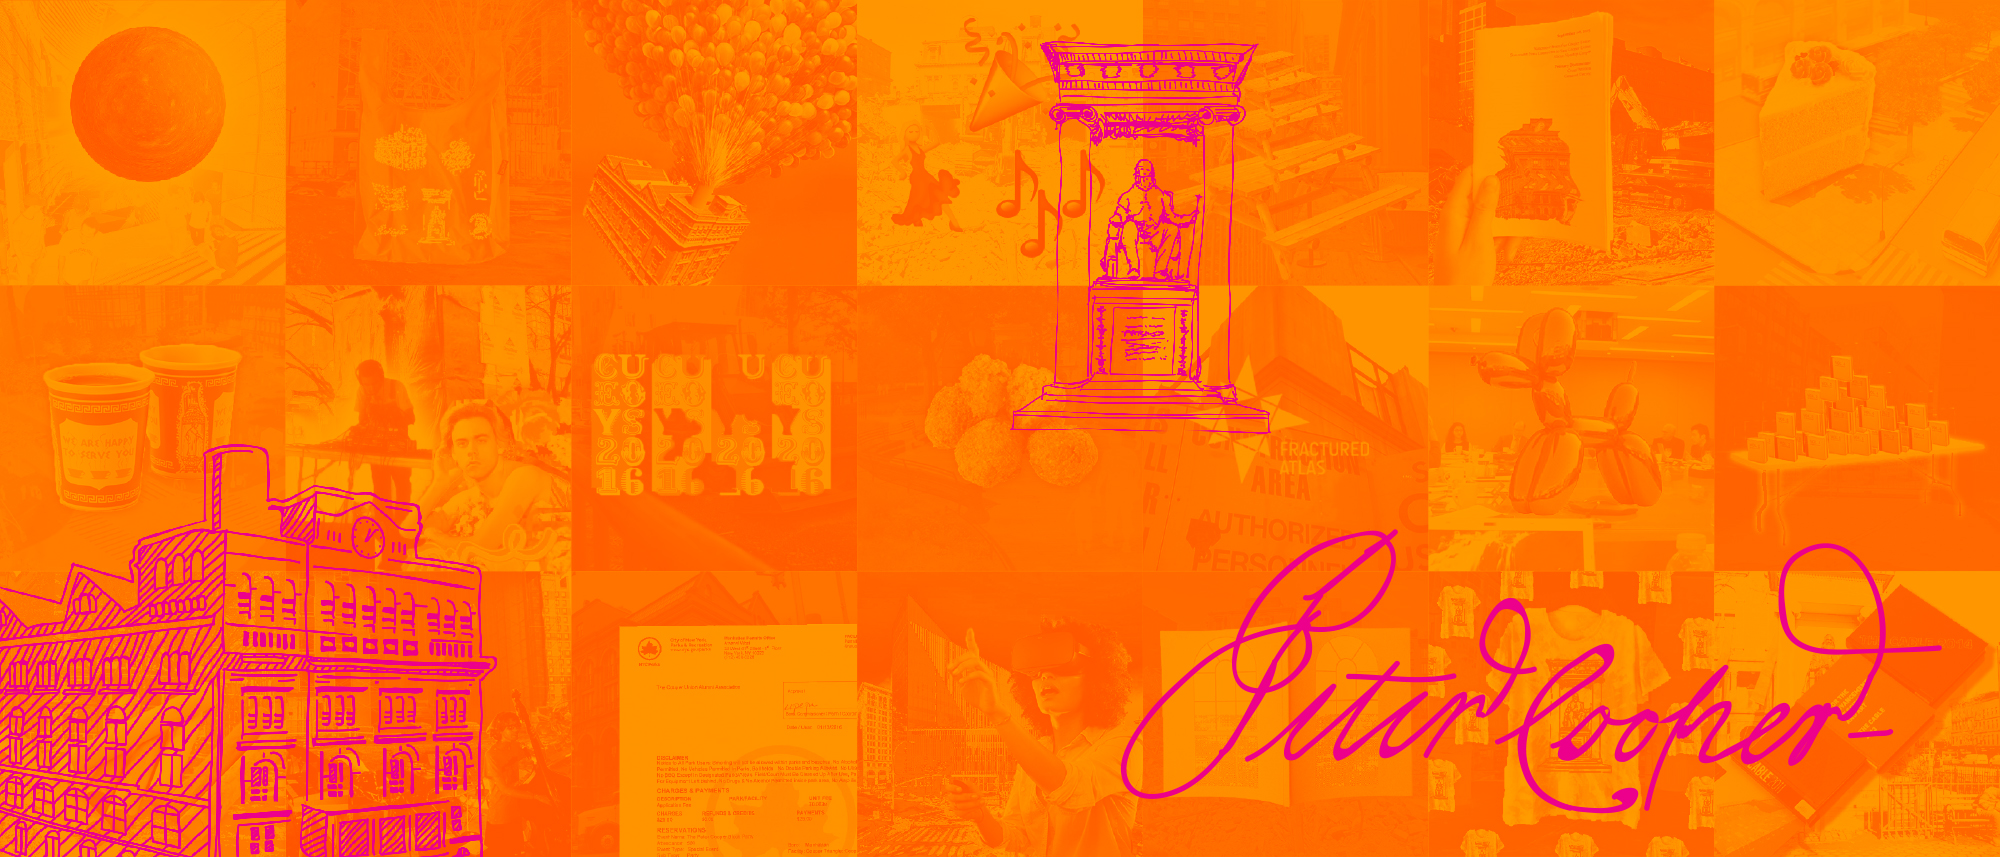
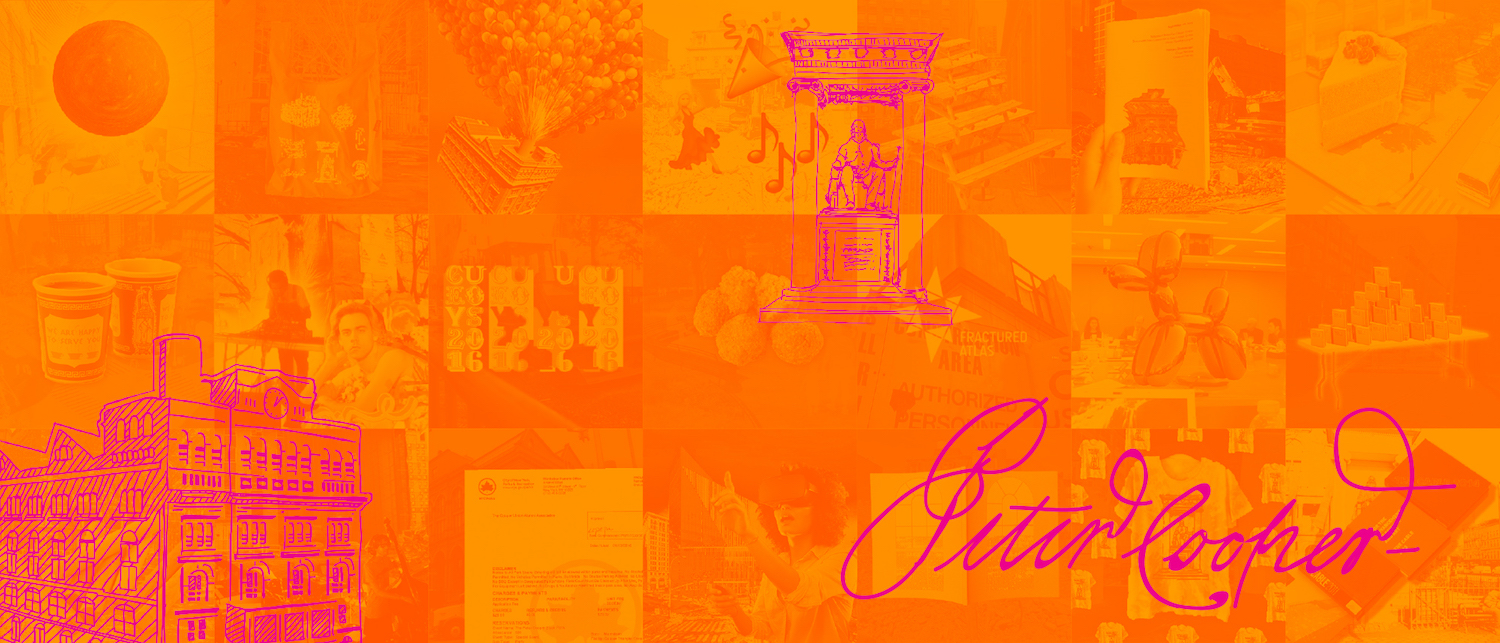
layouts + optimize images

diff --git a/_layouts/index.html b/_layouts/index.html
@@ -1,45 +1,23 @@
-<!doctype html>
-<html class="no-js" lang="">
-    <head>
-        <meta charset="utf-8">
-        <meta http-equiv="x-ua-compatible" content="ie=edge">
-        <title>Peter Cooper Block Party 2016</title>
-        <meta name="description" content="">
-        <meta name="viewport" content="width=device-width, initial-scale=1">
+{% include header.html %}
 
-        <link rel="apple-touch-icon" href="apple-touch-icon.png">
-        <!-- Place favicon.ico in the root directory -->
+    {% include nav.html %}
 
-        <link rel="stylesheet" href="css/normalize.css">
-        <link rel="stylesheet" href="css/main.css">
-        <link rel="stylesheet" href="https://cdn.rawgit.com/twbs/bootstrap/v4-dev/dist/css/bootstrap.css" crossorigin="anonymous">
-        <script src="js/vendor/modernizr-2.8.3.min.js"></script>
-    </head>
-        <!--[if lt IE 8]>
-            <p class="browserupgrade">You are using an <strong>outdated</strong> browser. Please <a href="http://browsehappy.com/">upgrade your browser</a> to improve your experience.</p>
-        <![endif]-->
-
-        {% include nav.html %}
-
-        <div class="alert alert-warning" role="alert" style="margin-bottom:0;">
-            <div class="container">
-                <strong>Calling all volunteers!</strong> Contact <a href="mailto:petercooperblockparty@gmail.com">petercooperblockparty@gmail.com</a> if you'd like to help out on June 5th.
-            </div>
+    <div class="alert alert-warning" role="alert" style="margin-bottom:0;">
+        <div class="container">
+            <strong>Calling all volunteers!</strong> Contact <a href="mailto:petercooperblockparty@gmail.com">petercooperblockparty@gmail.com</a> if you'd like to help out on June 5th.
         </div>
-        <div class="jumbotron jumbotron-fluid" style="min-height:600px; background-color:magenta; color: #fff;">
-            <div class="container intro-text">
-                <h3><strong>June 5, 2016</strong></h3>
-                <h1 class="display-3">Peter Cooper Block Party 2016</h1>
-                <p class="lead">Outside the Foundation Building<br> 
-                7 East 7th St., New York, NY<br> 
-                FREE & PUBLIC</p>
-            </div>
+    </div>
+    
+    <div class="jumbotron jumbotron-fluid" style="min-height:600px; background-color:magenta; color: #fff;">
+        <div class="container intro-text">
+            <h3><strong>June 5, 2016</strong></h3>
+            <h1 class="display-3">Peter Cooper Block Party 2016</h1>
+            <p class="lead">Outside the Foundation Building<br> 
+            7 East 7th St., New York, NY<br> 
+            FREE & PUBLIC</p>
         </div>
+    </div>
+
     <img src="img/savethedate.jpg" style="width:100%;" alt="Peter Cooper Block Party">
-        <script src="https://code.jquery.com/jquery-1.12.0.min.js"></script>
-        <script>window.jQuery || document.write('<script src="js/vendor/jquery-1.12.0.min.js"><\/script>')</script>
-        <script src="js/plugins.js"></script>
-        <script src="js/main.js"></script>
 
-    </body>
-</html>
+{% include footer.html %}

diff --git a/_layouts/featuring.html b/_layouts/featuring.html
@@ -1,20 +1,5 @@
-<!doctype html>
-<html class="no-js" lang="">
-    <head>
-        <meta charset="utf-8">
-        <meta http-equiv="x-ua-compatible" content="ie=edge">
-        <title>Featuring | Peter Cooper Block Party 2016</title>
-        <meta name="description" content="">
-        <meta name="viewport" content="width=device-width, initial-scale=1">
+{% include header.html %}
 
-        <link rel="apple-touch-icon" href="apple-touch-icon.png">
-        <!-- Place favicon.ico in the root directory -->
-
-        <link rel="stylesheet" href="css/normalize.css">
-        <link rel="stylesheet" href="css/main.css">
-        <link rel="stylesheet" href="https://cdn.rawgit.com/twbs/bootstrap/v4-dev/dist/css/bootstrap.css" crossorigin="anonymous">
-        <script src="js/vendor/modernizr-2.8.3.min.js"></script>
-    </head>
     <body data-spy="scroll" data-offset="50" data-target="#navbar" id="top">
         <!--[if lt IE 8]>
             <p class="browserupgrade">You are using an <strong>outdated</strong> browser. Please <a href="http://browsehappy.com/">upgrade your browser</a> to improve your experience.</p>
@@ -36,7 +21,7 @@
             <div class="card-columns">
                 {% for feature in site.data.featuring %}
                         <div class="card text-xs-center">
-                          {% if feature.image %}<img class="card-img-top" src="{{site.baseurl}}/img/{{feature.image}}">{% else %}<img class="card-img-top" src="https://placeholdit.imgix.net/~text?&bg=ffff00&w=400&h=400">{% endif %}
+                          {% if feature.image %}<img class="card-img-top" src="{{site.baseurl}}/img/squares/{{feature.image}}">{% else %}<img class="card-img-top" src="https://placeholdit.imgix.net/~text?&bg=ffff00&w=400&h=400">{% endif %}
                           <div class="card-block">
                             <h4 class="card-title">{{feature.title }}</h4>
                             {% if feature.description %}<p class="card-text">{{feature.description}}</p>{% endif %}
@@ -93,13 +78,4 @@
             </div>
         </div>
 
-        <script src="https://code.jquery.com/jquery-1.12.0.min.js"></script>
-        <script>window.jQuery || document.write('<script src="js/vendor/jquery-1.12.0.min.js"><\/script>')</script>
-        <script type="text/javascript" src="https://cdnjs.cloudflare.com/ajax/libs/tether/1.3.2/js/tether.min.js"></script>
-        <script src="https://cdn.rawgit.com/twbs/bootstrap/v4-dev/dist/js/bootstrap.js" crossorigin="anonymous"></script>
-        <script type="text/javascript" src="https://cdnjs.cloudflare.com/ajax/libs/jquery.countdown/2.1.0/jquery.countdown.min.js"></script>
-        <script src="js/plugins.js"></script>
-        <script src="js/main.js"></script>
-
-    </body>
-</html>
+{% include footer.html %}

diff --git a/_layouts/fundraising.html b/_layouts/fundraising.html
@@ -1,20 +1,5 @@
-<!doctype html>
-<html class="no-js" lang="">
-    <head>
-        <meta charset="utf-8">
-        <meta http-equiv="x-ua-compatible" content="ie=edge">
-        <title>Fundraising | Peter Cooper Block Party 2016</title>
-        <meta name="description" content="">
-        <meta name="viewport" content="width=device-width, initial-scale=1">
+{% include header.html %}
 
-        <link rel="apple-touch-icon" href="apple-touch-icon.png">
-        <!-- Place favicon.ico in the root directory -->
-
-        <link rel="stylesheet" href="css/normalize.css">
-        <link rel="stylesheet" href="css/main.css">
-        <link rel="stylesheet" href="https://cdn.rawgit.com/twbs/bootstrap/v4-dev/dist/css/bootstrap.css" crossorigin="anonymous">
-        <script src="js/vendor/modernizr-2.8.3.min.js"></script>
-    </head>
     <body data-spy="scroll" data-offset="50" data-target="#navbar" id="top">
         <!--[if lt IE 8]>
             <p class="browserupgrade">You are using an <strong>outdated</strong> browser. Please <a href="http://browsehappy.com/">upgrade your browser</a> to improve your experience.</p>
@@ -77,7 +62,7 @@
             <div class="card-columns">
                 {% for item in category.items %}
                         <div class="card text-xs-center">
-                          {% if item.image %}<img class="card-img-top" src="{{site.baseurl}}/img/{{item.image}}">{% endif %}
+                          {% if item.image %}<img class="card-img-top" src="{{site.baseurl}}/img/squares/{{item.image}}">{% endif %}
                           <div class="card-block">
                             <h4 class="card-title">{{item.title }}</h4>
                             {% if item.description %}<p class="card-text">{{item.description}}</p>{% endif %}
@@ -159,13 +144,4 @@
             </div>
         </div>
 
-        <script src="https://code.jquery.com/jquery-1.12.0.min.js"></script>
-        <script>window.jQuery || document.write('<script src="js/vendor/jquery-1.12.0.min.js"><\/script>')</script>
-        <script type="text/javascript" src="https://cdnjs.cloudflare.com/ajax/libs/tether/1.3.2/js/tether.min.js"></script>
-        <script src="https://cdn.rawgit.com/twbs/bootstrap/v4-dev/dist/js/bootstrap.js" crossorigin="anonymous"></script>
-        <script type="text/javascript" src="https://cdnjs.cloudflare.com/ajax/libs/jquery.countdown/2.1.0/jquery.countdown.min.js"></script>
-        <script src="js/plugins.js"></script>
-        <script src="js/main.js"></script>
-
-    </body>
-</html>
+{% include footer.html %}

diff --git a/_includes/header.html b/_includes/header.html
@@ -1,0 +1,17 @@
+<!doctype html>
+<html class="no-js" lang="">
+    <head>
+        <meta charset="utf-8">
+        <meta http-equiv="x-ua-compatible" content="ie=edge">
+        <title>{{ page.title }} | Peter Cooper Block Party 2016</title>
+        <meta name="description" content="">
+        <meta name="viewport" content="width=device-width, initial-scale=1">
+
+        <link rel="apple-touch-icon" href="apple-touch-icon.png">
+        <!-- Place favicon.ico in the root directory -->
+
+        <link rel="stylesheet" href="{{site.baseurl}}/css/normalize.css">
+        <link rel="stylesheet" href="{{site.baseurl}}/css/main.css">
+        <link rel="stylesheet" href="https://cdn.rawgit.com/twbs/bootstrap/v4-dev/dist/css/bootstrap.css" crossorigin="anonymous">
+        <script src="{{site.baseurl}}/js/vendor/modernizr-2.8.3.min.js"></script>
+    </head>

diff --git a/_includes/footer.html b/_includes/footer.html
@@ -1,0 +1,10 @@
+        <script src="https://code.jquery.com/jquery-1.12.0.min.js"></script>
+        <script>window.jQuery || document.write('<script src="js/vendor/jquery-1.12.0.min.js"><\/script>')</script>
+        <script type="text/javascript" src="https://cdnjs.cloudflare.com/ajax/libs/tether/1.3.2/js/tether.min.js"></script>
+        <script src="https://cdn.rawgit.com/twbs/bootstrap/v4-dev/dist/js/bootstrap.js" crossorigin="anonymous"></script>
+        <script type="text/javascript" src="https://cdnjs.cloudflare.com/ajax/libs/jquery.countdown/2.1.0/jquery.countdown.min.js"></script>
+        <script src="{{site.baseurl}}/js/plugins.js"></script>
+        <script src="{{site.baseurl}}/js/main.js"></script>
+
+    </body>
+</html>

diff --git a/css/main.css b/css/main.css
@@ -312,4 +312,7 @@ body {
 #navbar {
     margin-top:50px;
 }
-img {max-width:100%}
+
+img {
+  max-width:100%
+}
